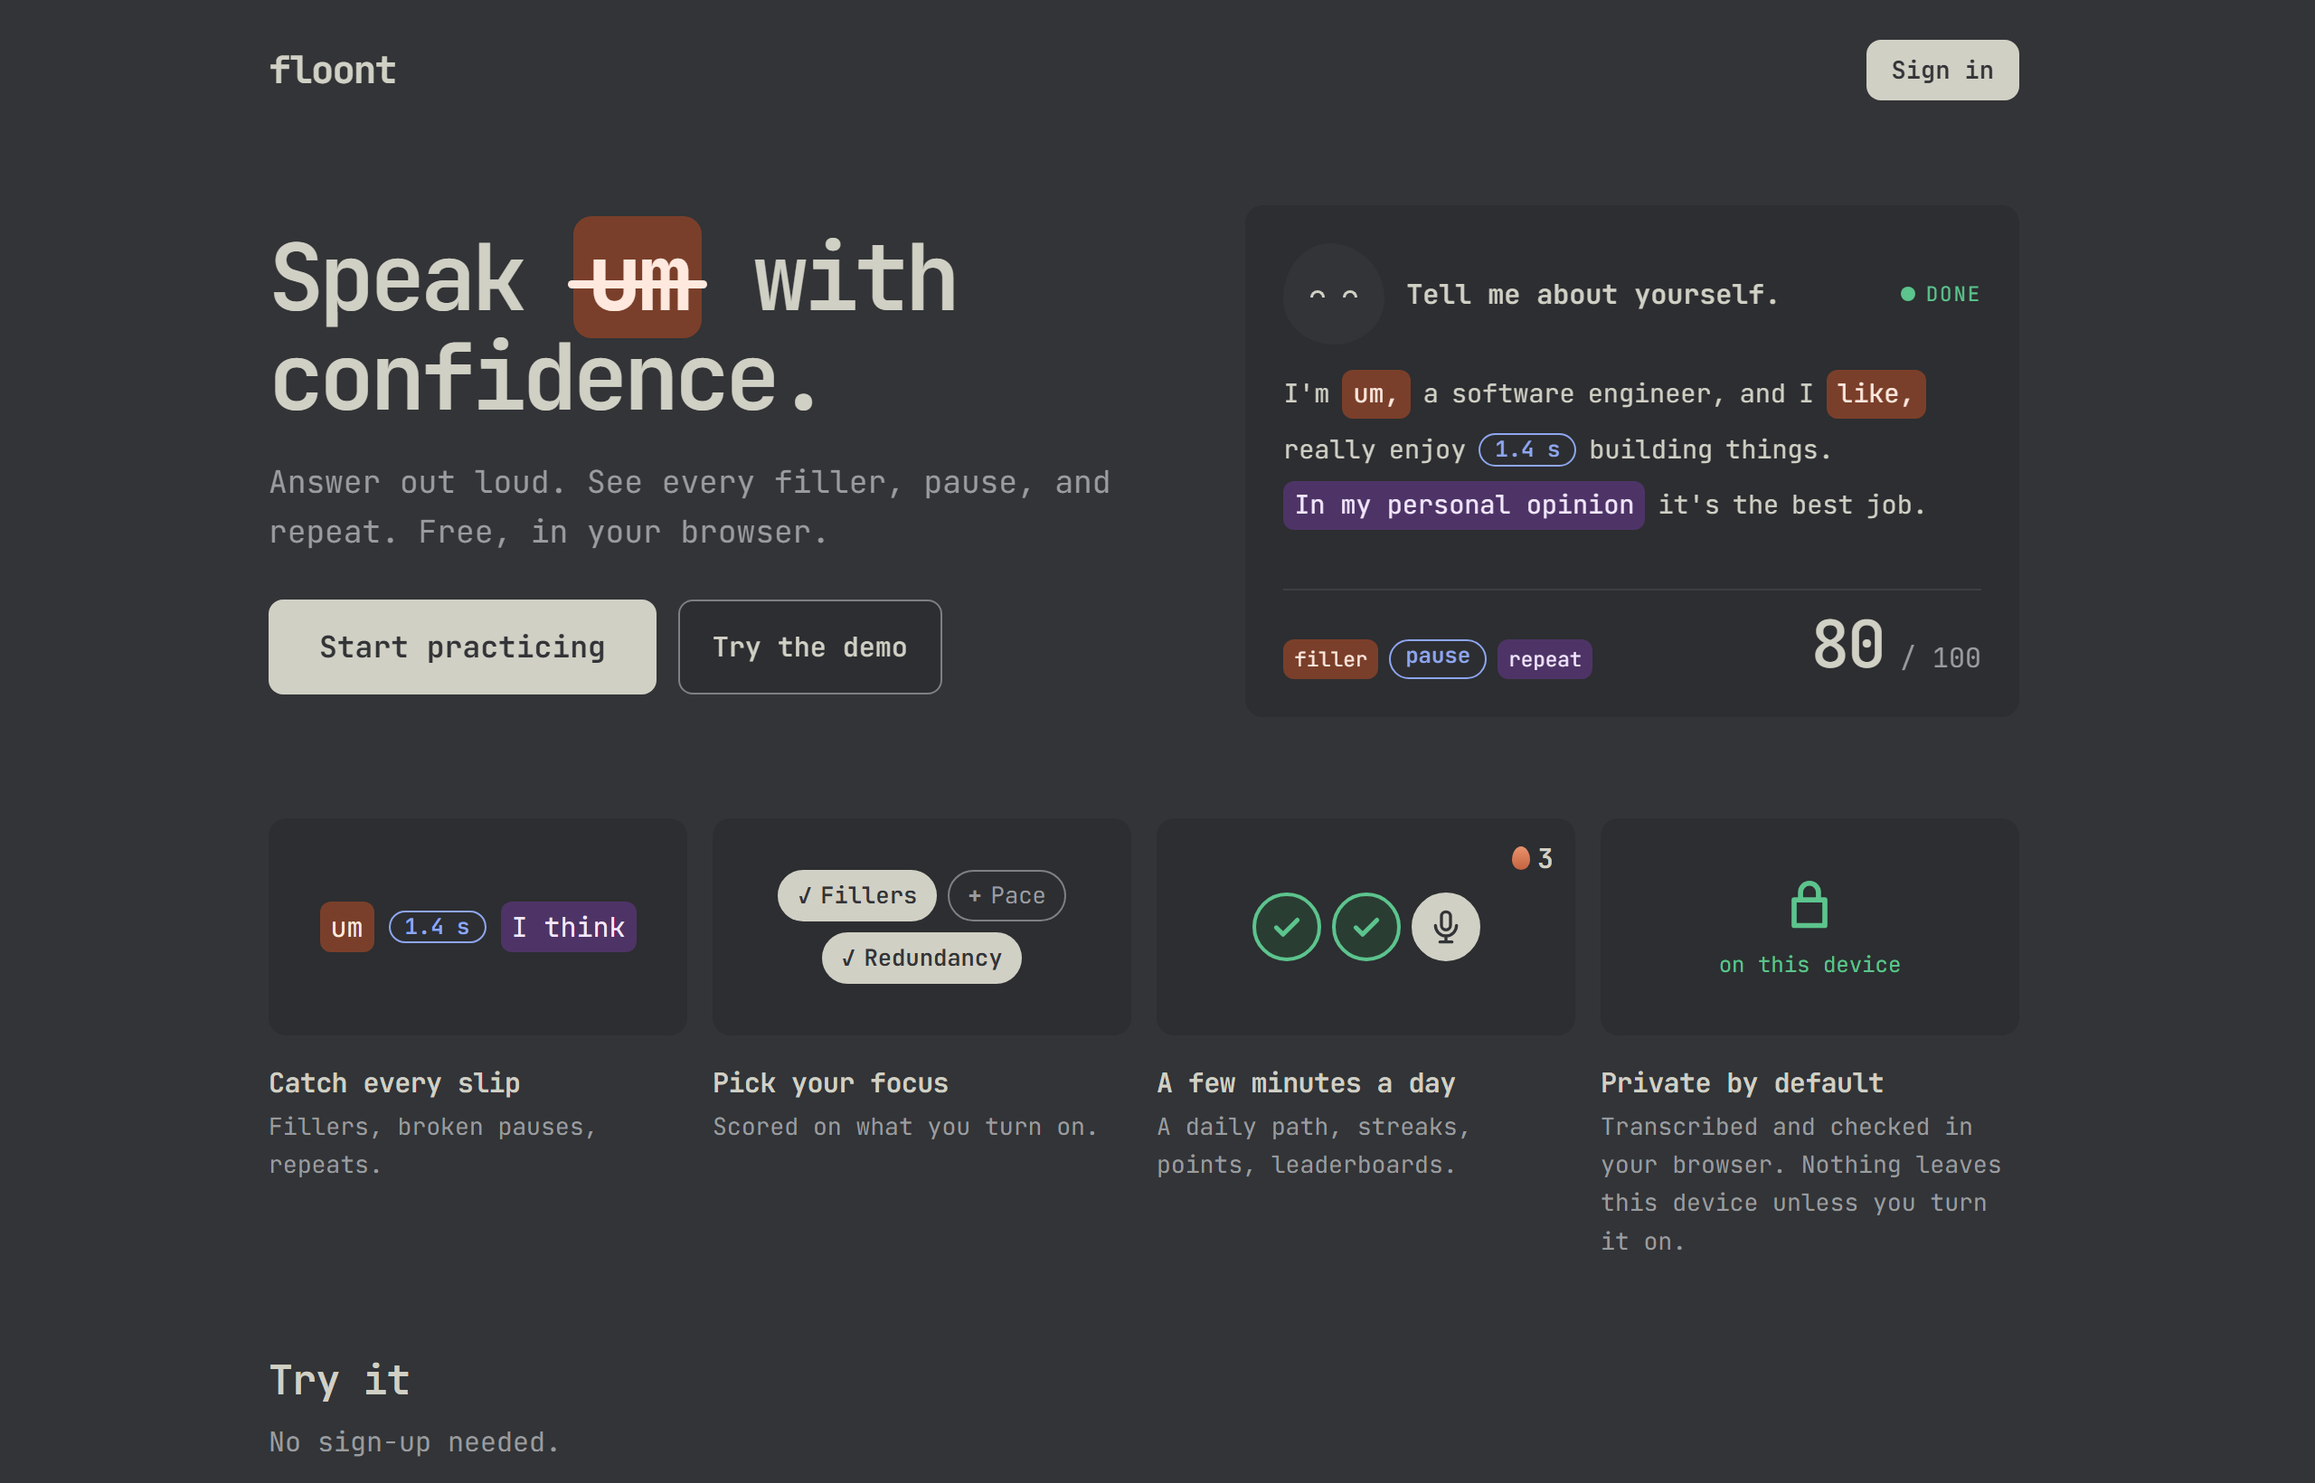
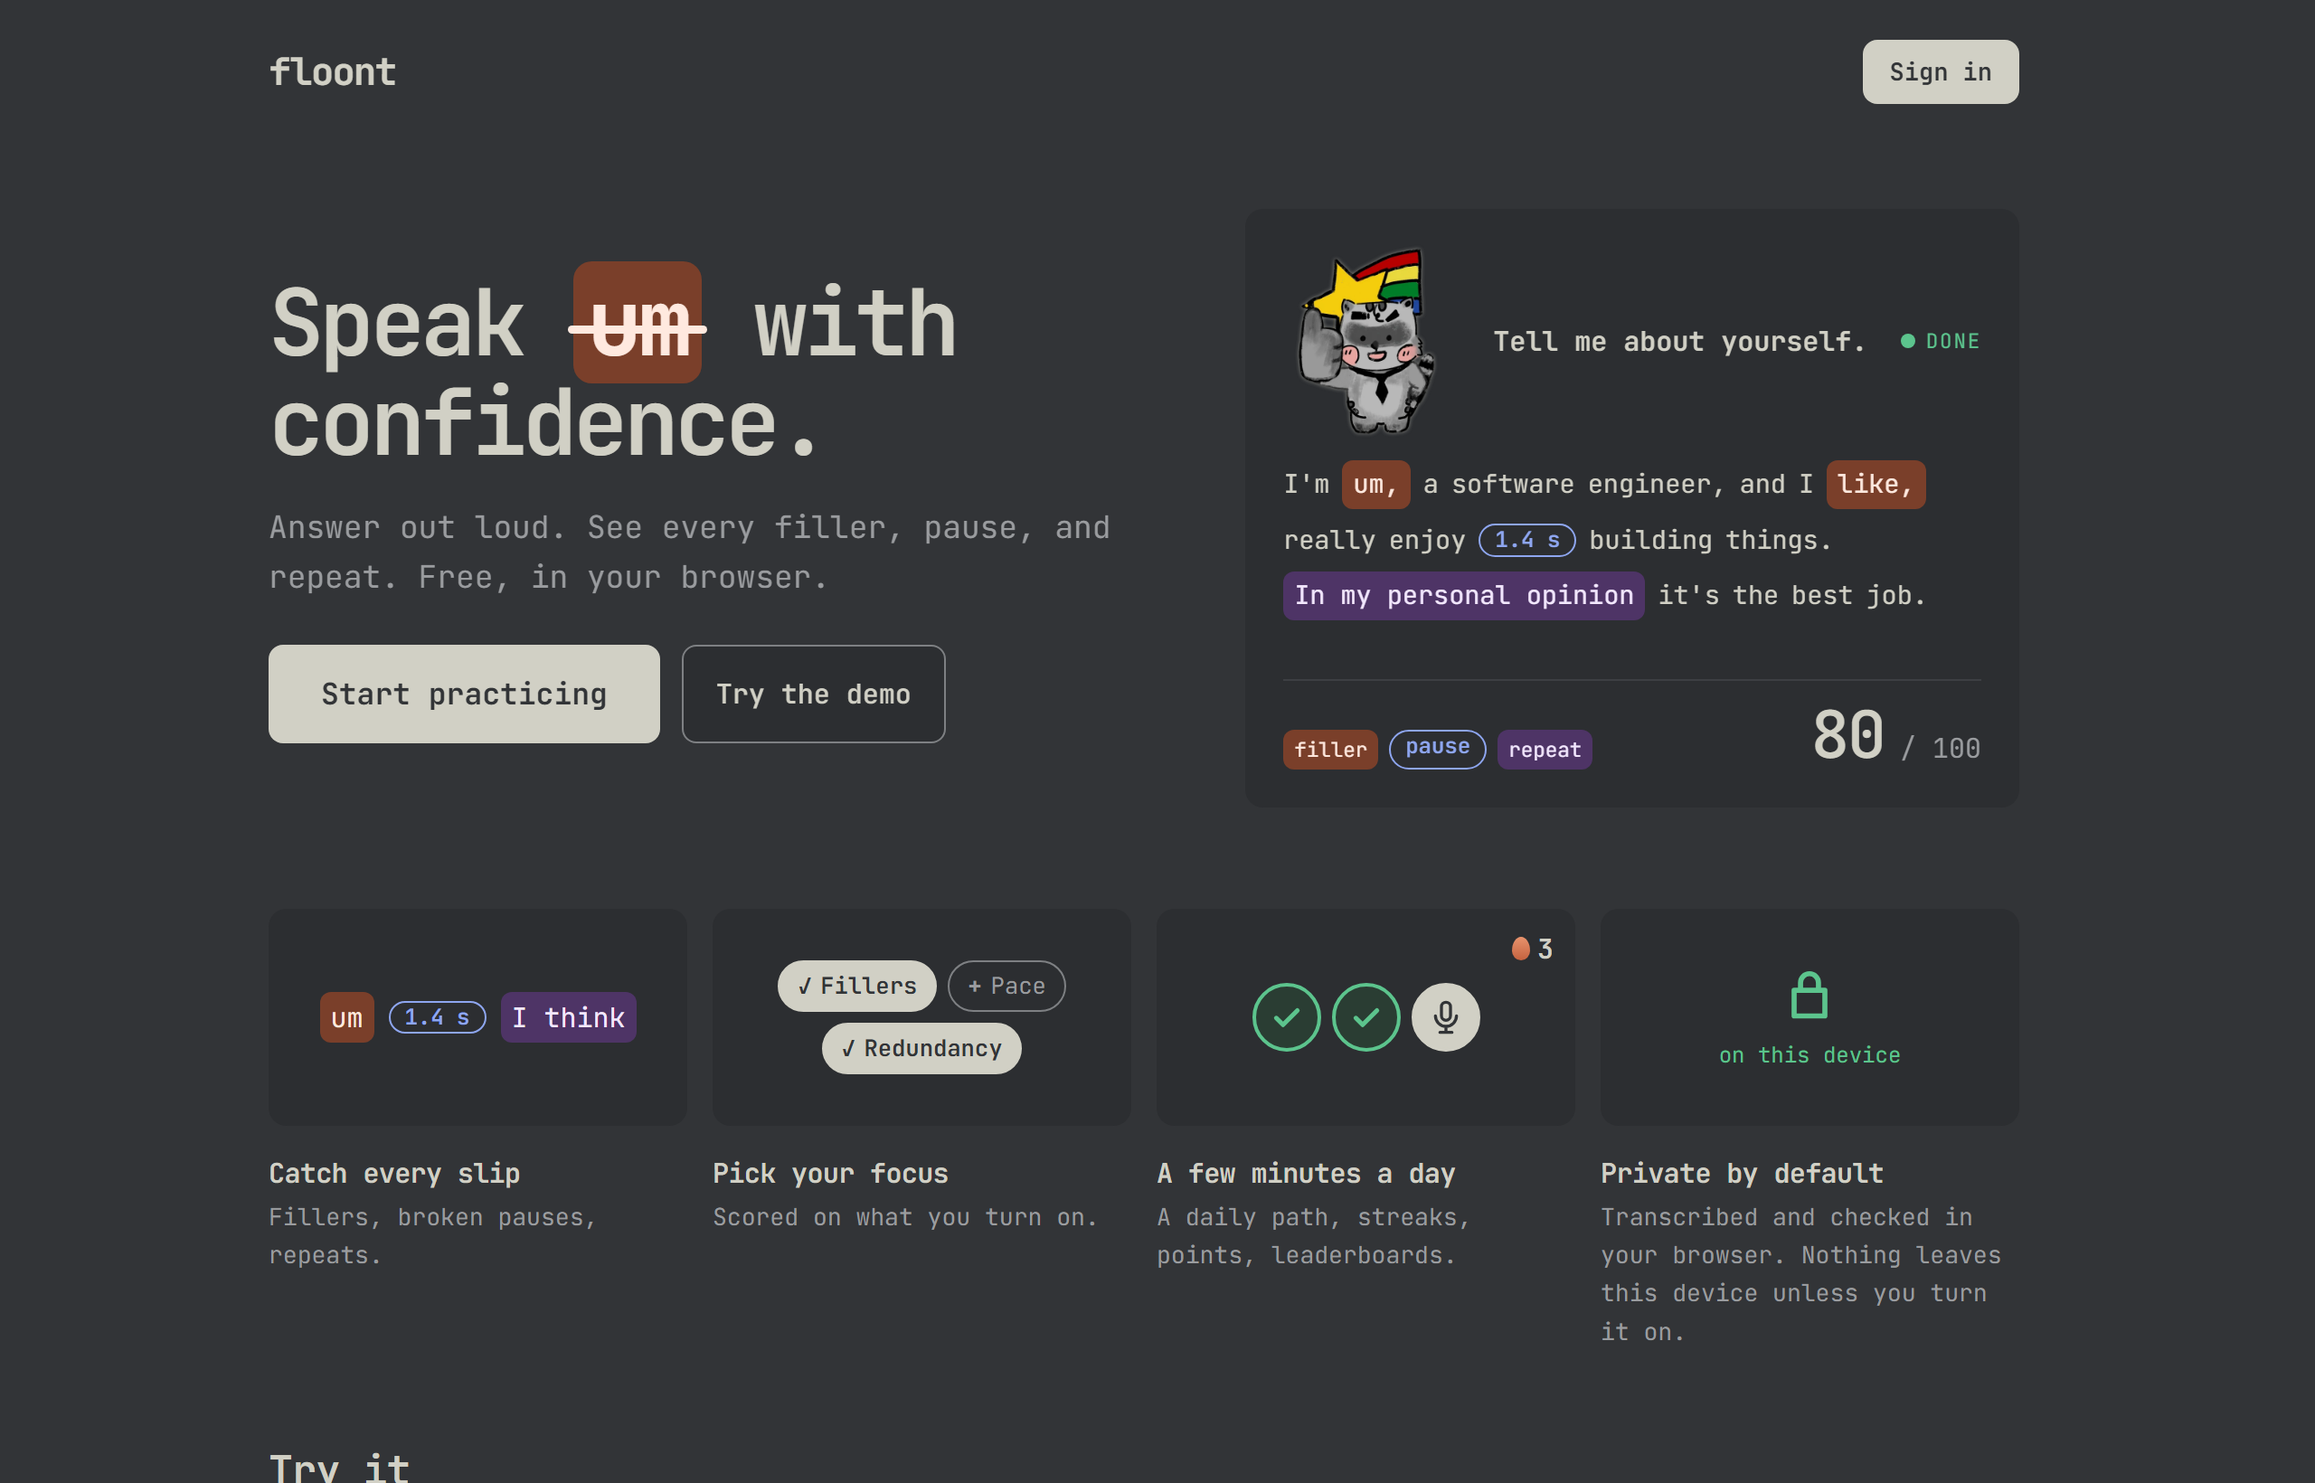
Case study: bring Floont up to date
Update the question count, trial length, and test count, and cover Floo,
the "Next time" tip, question variety, and a new challenge about Gemini
getting stuck. Retake the screenshots that showed the old placeholder
mascot.

diff --git a/src/caseStudies/floont.ts b/src/caseStudies/floont.ts
@@ -31,7 +31,7 @@ export const floont: CaseStudy = {
                 {
                     figure: {
                         src: "/assets/images/floont_landing.png",
-                        alt: "Floont landing page with the headline Speak with confidence and a sample answer with fillers, a pause, and a repeat marked",
+                        alt: "Floont landing page with the headline Speak with confidence and, beside Floo the Raccoon, a sample answer with fillers, a pause, and a repeat marked",
                         caption: "The landing page. The sample answer on the right marks each kind of mistake Floont checks for.",
                     },
                 },
@@ -62,10 +62,10 @@ export const floont: CaseStudy = {
                 {
                     list: [
                         { term: "Three checks.", text: "Filler words; pace, which separates pauses between thoughts (good) from pauses in the middle of a phrase (a mistake); and redundancy, which catches repeated hedges like \"I think\", crutch words like \"basically\", and phrases that say the same thing twice." },
-                        { term: "719 questions, picked for you.", text: "Behavioral, technical, meeting, presentation, casual, and storytelling questions across 19 fields, from software engineering and information systems to law and healthcare. Your role picks your field, and some questions are worded for it, for example \"Why do you want to work as an ICU nurse?\"" },
+                        { term: "1,100 questions, picked for you.", text: "Behavioral, technical, meeting, presentation, casual, and storytelling questions across 19 fields, from software engineering and information systems to law and healthcare. Every field has practice beyond interviews. Your role picks your field, and some questions are worded for it, for example \"Why do you want to work as an ICU nurse?\"" },
                         { term: "Fitted to your career level.", text: "Early-career, mid-level, senior, and manager questions go only to people at that level. Software engineers also get system design, concepts like object-oriented programming, and coding problems to talk through." },
                         { term: "Your own questions.", text: "Add questions you want to practice, or paste a job description to get suggestions from it." },
-                        { term: "Learns your habits.", text: "Questions you answer come up more, and ones you skip come up less. Names you correct in a transcript are fed back to the speech engine so it spells them right next time." },
+                        { term: "Learns your habits.", text: "Questions you answer come up more, and ones you skip come up less. A question that would get much the same answer as the last one is held back. Names you correct in a transcript are fed back to the speech engine so it spells them right next time." },
                         { term: "13 drills and mock interviews.", text: "A filler-free streak that ends at your first filler, reading a passage with marked pauses, STAR stories, 45-second elevator pitches, tough questions with three seconds to prepare, and a five-question mock interview whose last question follows your career level." },
                         { term: "Community exercises.", text: "Users can publish their own question sets for others to practice, with reporting and automatic hiding of reported sets." },
                     ],
@@ -73,7 +73,7 @@ export const floont: CaseStudy = {
                 {
                     figure: {
                         src: "/assets/images/floont_practice.png",
-                        alt: "Practice page showing a question, a question type menu, focus toggles for fillers, pace, and redundancy, and a Start talking button",
+                        alt: "Practice page showing a question, a question type menu, focus toggles for fillers, pace, and redundancy, Floo the Raccoon, and a Start talking button",
                         caption: "Practice. Choose a kind of question and the checks you want scored, then answer out loud.",
                     },
                 },
@@ -89,6 +89,7 @@ export const floont: CaseStudy = {
                 {
                     list: [
                         { term: "Score.", text: "Every answer starts at 100, and each mistake costs 5 points. The list under the score shows each deduction and when it happened." },
+                        { term: "What to try next.", text: "One line under the score names the thing to work on first, worked out on the device from that answer alone, such as which filler made up most of the slips." },
                         { term: "Timeline.", text: "The whole answer as one strip, with each filler, pause, and repeat marked where it happened. It is also the audio player: click a mark to hear that moment, or drag along the strip to scrub." },
                         { term: "Transcript.", text: "Each tab marks its own kind of mistake in the text. Words the analyzer is unsure about get a dashed outline, and you decide whether they count." },
                         { term: "Fix it yourself.", text: "If the speech engine misheard a word, you can edit the transcript and the score updates." },
@@ -97,8 +98,8 @@ export const floont: CaseStudy = {
                 {
                     figure: {
                         src: "/assets/images/floont_results.png",
-                        alt: "Results page with a score of 70 out of 100, a list of deductions, a timeline of marks, and the transcript with fillers highlighted",
-                        caption: "Results for a sample answer: the score and deductions, the timeline, and the transcript with fillers marked. A dashed outline means Floont is not sure.",
+                        alt: "Results page with a score of 70 out of 100, a list of deductions, a tip for next time, a timeline of marks, and the transcript with fillers highlighted",
+                        caption: "Results for a sample answer: the score and deductions, what to try next, the timeline, and the transcript with fillers marked. A dashed outline means Floont is not sure.",
                     },
                 },
             ],
@@ -153,9 +154,9 @@ export const floont: CaseStudy = {
                 {
                     list: [
                         { term: "Sharper delivery checks.", text: "Gemini reads for meaning, so it makes better filler calls and catches talking in circles: saying the same idea again without adding anything." },
-                        { term: "Content feedback.", text: "Whether the answer fits the question, is correct, is well structured, specific, and complete, with what worked, what to fix, and an outline of a stronger answer." },
+                        { term: "Content feedback.", text: "Whether the answer fits the question, is correct, is well structured, specific, and complete, with what worked, what to fix, and an outline of a stronger answer. It names the subject itself: on a coding question, the data structure, edge cases, and time and space complexity." },
                         { term: "Never trusted blindly.", text: "Every word span Gemini returns is checked in the browser against the real transcript before it is shown. Content feedback never changes the score." },
-                        { term: "Always a fallback.", text: "If Gemini is slow, rate-limited, or down, the answer is checked by the browser's rules as before, with no error shown." },
+                        { term: "Always a fallback.", text: "If Gemini is slow, rate-limited, or down, the delivery checks fall back to the browser's rules with no error shown, and content feedback can be tried again." },
                     ],
                 },
                 {
@@ -177,7 +178,7 @@ export const floont: CaseStudy = {
                 {
                     list: [
                         { term: "Floont Plus.", text: "Free accounts get three Gemini-checked answers a day; Plus is $5 a month with no daily cap beyond fair use. Stripe Checkout takes the payment, a webhook keeps each subscription in step, and the plan is only ever checked on the server." },
-                        { term: "Creator referrals.", text: "Creators get a link, code, and QR code that give their audience a 7-day trial. An admin page shows sign-ups and conversions per creator as counts only, never who signed up." },
+                        { term: "Creator referrals.", text: "Creators get a link, code, and QR code that give their audience a 3-day trial. An admin page shows sign-ups and conversions per creator as counts only, never who signed up." },
                         { term: "Reminder emails.", text: "An hourly job can email someone when a streak of three days or more is about to end, or when their weekly goal is slipping. They are opt-in and off by default, sent in the user's own evening, with a one-click unsubscribe." },
                     ],
                 },
@@ -188,12 +189,12 @@ export const floont: CaseStudy = {
             title: "Building a habit",
             blocks: [
                 {
-                    p: "A practice tool only helps if people come back to it. The home page turns each day into a short path: a warm-up, two focused answers, one answer with everything checked, and a drill. Points, streaks, daily quests, and leaderboards give a light reason to return. Leaderboards show first name and last initial only, and users can opt out.",
+                    p: "A practice tool only helps if people come back to it. The home page turns each day into a short path: a warm-up, two focused answers, one answer with everything checked, and a drill. Points, streaks, daily quests, and leaderboards give a light reason to return. Leaderboards show first name and last initial only, and users can opt out. The day's drill rotates through the ones aimed at the speaker's weakest skill, and Floo the Raccoon, the app's mascot, guides the way and sits thinking while an answer is analyzed.",
                 },
                 {
                     figure: {
                         src: "/assets/images/floont_home.png",
-                        alt: "Home page with a daily path of five steps, a streak and points card, a leaderboard, daily quests, and the week's progress",
+                        alt: "Home page with Floo the Raccoon, a daily path of five steps, a streak and points card, a leaderboard, daily quests, and the week's progress",
                         caption: "Home, with sample data: today's path on the left, and the streak, points, leaderboard, quests, and activity on the right.",
                     },
                 },
@@ -223,6 +224,7 @@ export const floont: CaseStudy = {
                         { term: "A large model in a browser tab.", text: "Running Whisper on the device meant a one-time 80 MB download, a Web Worker to keep the page responsive, and a progress bar so the first wait is clear." },
                         { term: "Browser quirks.", text: "Chrome saves recordings without a duration, which breaks seeking in the audio player. The player works around it by seeking past the end once so the browser computes the duration, then jumping back." },
                         { term: "AI on a free tier.", text: "Early on, Gemini requests timed out. I split delivery and content into separate requests, capped output length, limited the model's reasoning effort, and moved the content check to the background so results show right away." },
+                        { term: "A model that gets stuck.", text: "Newer Gemini models sometimes repeat themselves until they hit the output limit, which loses the whole reply. Changing the prompt and the reply format didn't stop it, so a cut-off reply is retried on a second model, and which model goes first is a setting rather than code." },
                         { term: "Counting a free allowance fairly.", text: "Splitting those requests meant one answer made two calls, and limiting them separately let a free account get a fourth answer checked. The limit now counts each transcript once per day, using a hash and a database lock so simultaneous requests can't slip past it." },
                     ],
                 },
@@ -236,7 +238,7 @@ export const floont: CaseStudy = {
                     list: [
                         { term: "Small pull requests.", text: "Every change goes through a feature branch and a pull request. GitHub Actions run tests, linting, and a production build, and Vercel builds a preview of each one." },
                         { term: "Real transcripts as tests.", text: "When the analyzer gets a real recording wrong, that exact transcript becomes a regression test before the rule is fixed." },
-                        { term: "Pure logic, tested.", text: "Scoring, question picking, pause classification, and filler rules are pure functions, separate from the UI, covered by nearly 500 unit tests." },
+                        { term: "Pure logic, tested.", text: "Scoring, question picking, pause classification, and filler rules are pure functions, separate from the UI, covered by nearly 600 unit tests." },
                         { term: "Notes alongside the code.", text: "Decisions, module notes, and status are kept in a linked notes vault, so the reasons behind a choice are written down." },
                     ],
                 },
@@ -249,7 +251,7 @@ export const floont: CaseStudy = {
                 {
                     list: [
                         "Offering Gemini in the EEA, Switzerland, and the UK, which its free tier doesn't allow.",
-                        "More questions, shaped by what users skip and answer.",
+                        "Tuning the browser's rules against more real recordings.",
                         "More drills, such as spotting your own fillers and clean transitions between points.",
                     ],
                 },
